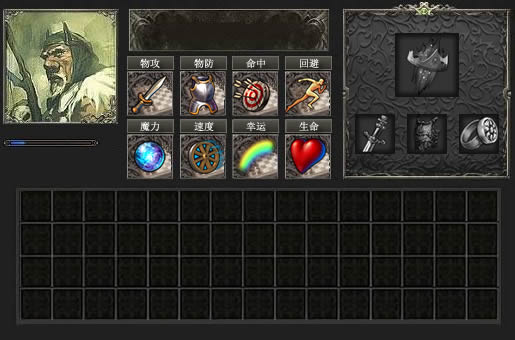
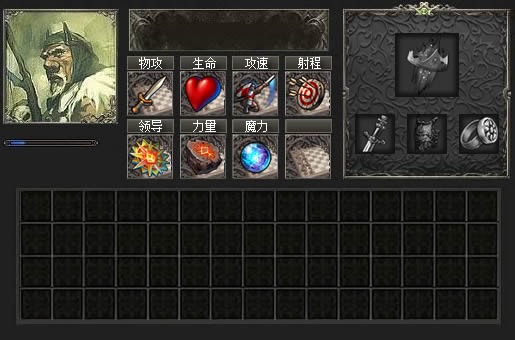
close #44 finish the normal effect support

Changed region(s): [[0.2485, 0.1471, 0.6524, 0.5294], [0.2485, 0.1471, 0.3107, 0.2059]]

diff --git a/TaleofMonsters2/Forms/EquipmentForm.cs b/TaleofMonsters2/Forms/EquipmentForm.cs
@@ -34,10 +34,6 @@ namespace TaleofMonsters.Forms
         private List<Equip> equipDataList = new List<Equip>();
         private Equip vEquip; //所有装备的属性
 
-        private int lp;
-        private int pp;
-        private int mp;
-
         public EquipmentForm()
         {
             InitializeComponent();
@@ -265,23 +261,6 @@ namespace TaleofMonsters.Forms
         {
             equipDataList = EquipBook.GetEquipsList(UserProfile.InfoEquip.Equipon);
             vEquip = EquipBook.GetVirtualEquips(equipDataList);
-            mp = lp = pp = 5;
-            foreach (var equip in equipDataList)
-            {
-                var equipConfig = ConfigData.GetEquipConfig(equip.TemplateId);
-                if (equipConfig.EnergyRate[0] > 0)
-                {
-                    lp = equipConfig.EnergyRate[0];
-                }
-                if (equipConfig.EnergyRate[1] > 0)
-                {
-                    pp = equipConfig.EnergyRate[1];
-                }
-                if (equipConfig.EnergyRate[2] > 0)
-                {
-                    mp = equipConfig.EnergyRate[2];
-                }
-            }
         }
 
         private void EquipmentForm_Paint(object sender, PaintEventArgs e)
@@ -333,14 +312,14 @@ namespace TaleofMonsters.Forms
             e.Graphics.FillRectangle(Brushes.DimGray, 31, 178, 80, 2);
             e.Graphics.FillRectangle(Brushes.DodgerBlue, 31, 178, Math.Min(UserProfile.InfoBasic.Exp * 79 / ExpTree.GetNextRequired(UserProfile.InfoBasic.Level) + 1, 80), 2);
 
-            DrawAttr(e.Graphics, font, heroData.Atk + vEquip.Atk, vEquip.Atk, 147, 136);
-            DrawAttr(e.Graphics, font, heroData.Hp + vEquip.Hp, vEquip.Hp, 147 + 53, 136);
-            DrawAttr(e.Graphics, font, heroData.Spd, 0, 147 + 53*2, 136);
-            DrawAttr(e.Graphics, font, heroData.Range, 0, 147 + 53 * 3, 136);
+            DrawAttr(e.Graphics, font, heroData.Atk + vEquip.Atk, 147, 136);
+            DrawAttr(e.Graphics, font, heroData.Hp + vEquip.Hp, 147 + 53, 136);
+            DrawAttr(e.Graphics, font, heroData.Spd, 147 + 53*2, 136);
+            DrawAttr(e.Graphics, font, heroData.Range, 147 + 53 * 3, 136);
 
-            DrawAttr(e.Graphics, font, lp, 0, 147, 199);
-            DrawAttr(e.Graphics, font, pp, 0, 147 + 53, 199);
-            DrawAttr(e.Graphics, font, mp, 0, 147 + 53 * 2, 199);
+            DrawAttr(e.Graphics, font, vEquip.LpRate, 147, 199);
+            DrawAttr(e.Graphics, font, vEquip.PpRate, 147 + 53, 199);
+            DrawAttr(e.Graphics, font, vEquip.MpRate, 147 + 53 * 2, 199);
 
             font.Dispose();
             font2.Dispose();
@@ -362,9 +341,9 @@ namespace TaleofMonsters.Forms
             return tipData.Image;
         }
 
-        private void DrawAttr(Graphics g, Font font, int basicV, int addonV, int x, int y)
+        private void DrawAttr(Graphics g, Font font, int totalV, int x, int y)
         {
-            g.DrawString(basicV.ToString(), font, Brushes.White, GetX(g, (basicV + addonV).ToString(), font, x, 45), y);
+            g.DrawString(totalV.ToString(), font, Brushes.White, GetX(g, totalV.ToString(), font, x, 45), y);
         }
     }
 }

diff --git a/TaleofMonsters2/DataType/Equips/Equip.cs b/TaleofMonsters2/DataType/Equips/Equip.cs
@@ -14,6 +14,10 @@ namespace TaleofMonsters.DataType.Equips
         public int Atk;//实际的攻击力
         public int Hp;
 
+        public int LpRate;
+        public int PpRate;
+        public int MpRate;
+
         public Equip()
         {
         }
@@ -31,6 +35,9 @@ namespace TaleofMonsters.DataType.Equips
             {
                 case TowerAttrs.Atk: return Atk;
                 case TowerAttrs.Hp: return Hp;
+                case TowerAttrs.Mp: return MpRate;
+                case TowerAttrs.Pp: return PpRate;
+                case TowerAttrs.Lp: return LpRate;
             }
             return 0;
         }
@@ -38,6 +45,9 @@ namespace TaleofMonsters.DataType.Equips
         public void UpgradeToLevel()
         {
             EquipConfig equipConfig = ConfigData.GetEquipConfig(TemplateId);
+            LpRate = equipConfig.EnergyRate[0];
+            PpRate = equipConfig.EnergyRate[1];
+            MpRate = equipConfig.EnergyRate[2];
             int qual = equipConfig.Quality; 
             int standardValue = (35 + qual * 5) * (equipConfig.Level + 9) / 10 * AttrFactor / 100;
             if (equipConfig.AtkP > 0)

diff --git a/TaleofMonsters2/Core/HSTypes.cs b/TaleofMonsters2/Core/HSTypes.cs
@@ -138,9 +138,9 @@
                 "生命:提升主塔最大生命",
                 "攻速:提升攻击速度",
                 "射程:提升射击范围",
-                "领导:提升主塔最大生命",
-                "力量:提升攻击速度",
-                "魔力:提升射击范围"
+                "领导:提升LP的回复",
+                "力量:提升PP的回复",
+                "魔力:提升MP的回复"
                           };
             return rt[id];
         }

diff --git a/TaleofMonsters2/DataType/Equips/EquipBook.cs b/TaleofMonsters2/DataType/Equips/EquipBook.cs
@@ -66,6 +66,9 @@ namespace TaleofMonsters.DataType.Equips
             {
                 vEquip.Atk += equip.Atk;
                 vEquip.Hp += equip.Hp;
+                vEquip.MpRate += equip.MpRate;
+                vEquip.PpRate += equip.PpRate;
+                vEquip.LpRate += equip.LpRate;
             }
             return vEquip;
         }

diff --git a/TaleofMonsters2/DataType/Cards/Monsters/Monster.cs b/TaleofMonsters2/DataType/Cards/Monsters/Monster.cs
@@ -54,6 +54,8 @@ namespace TaleofMonsters.DataType.Cards.Monsters
             {
                 case TowerAttrs.Atk: return Atk;
                 case TowerAttrs.Hp: return Hp;
+                case TowerAttrs.Spd: return Spd;
+                case TowerAttrs.Range: return Range;
             }
             return 0;
         }
